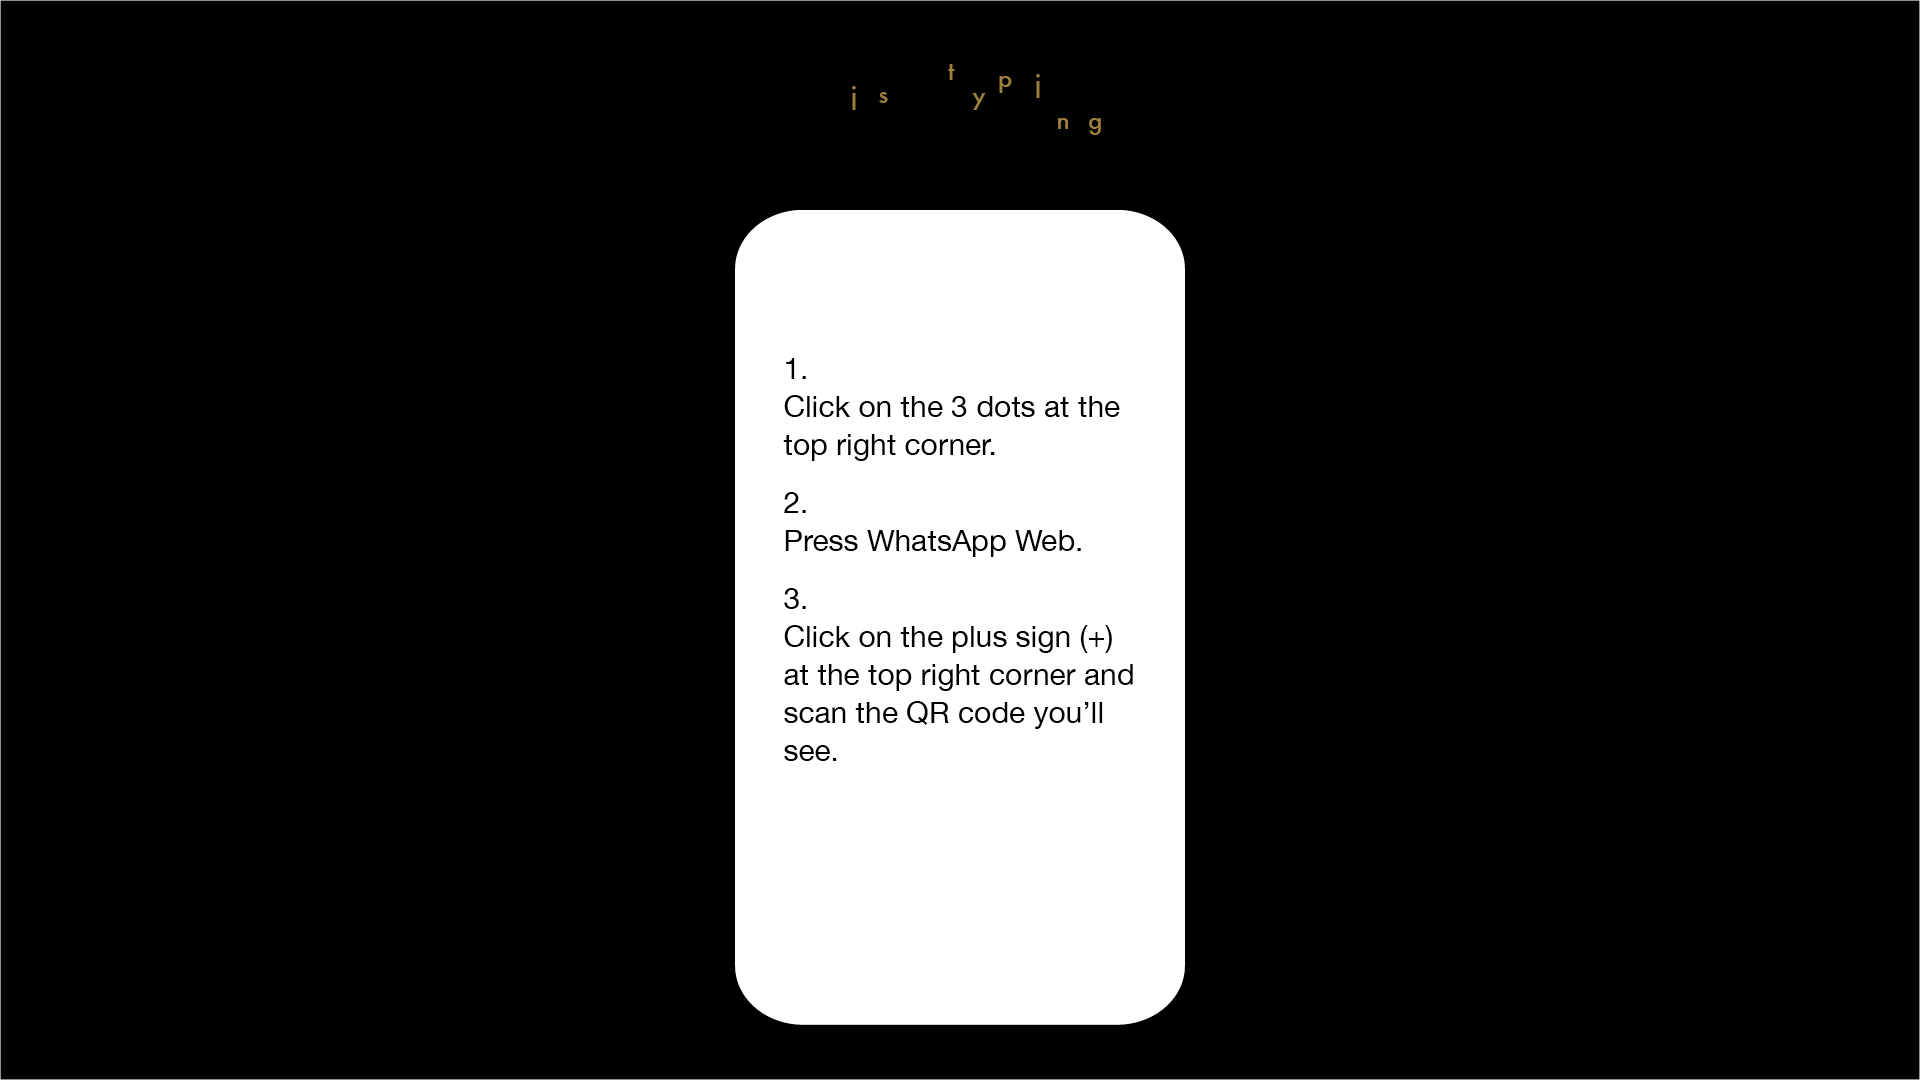
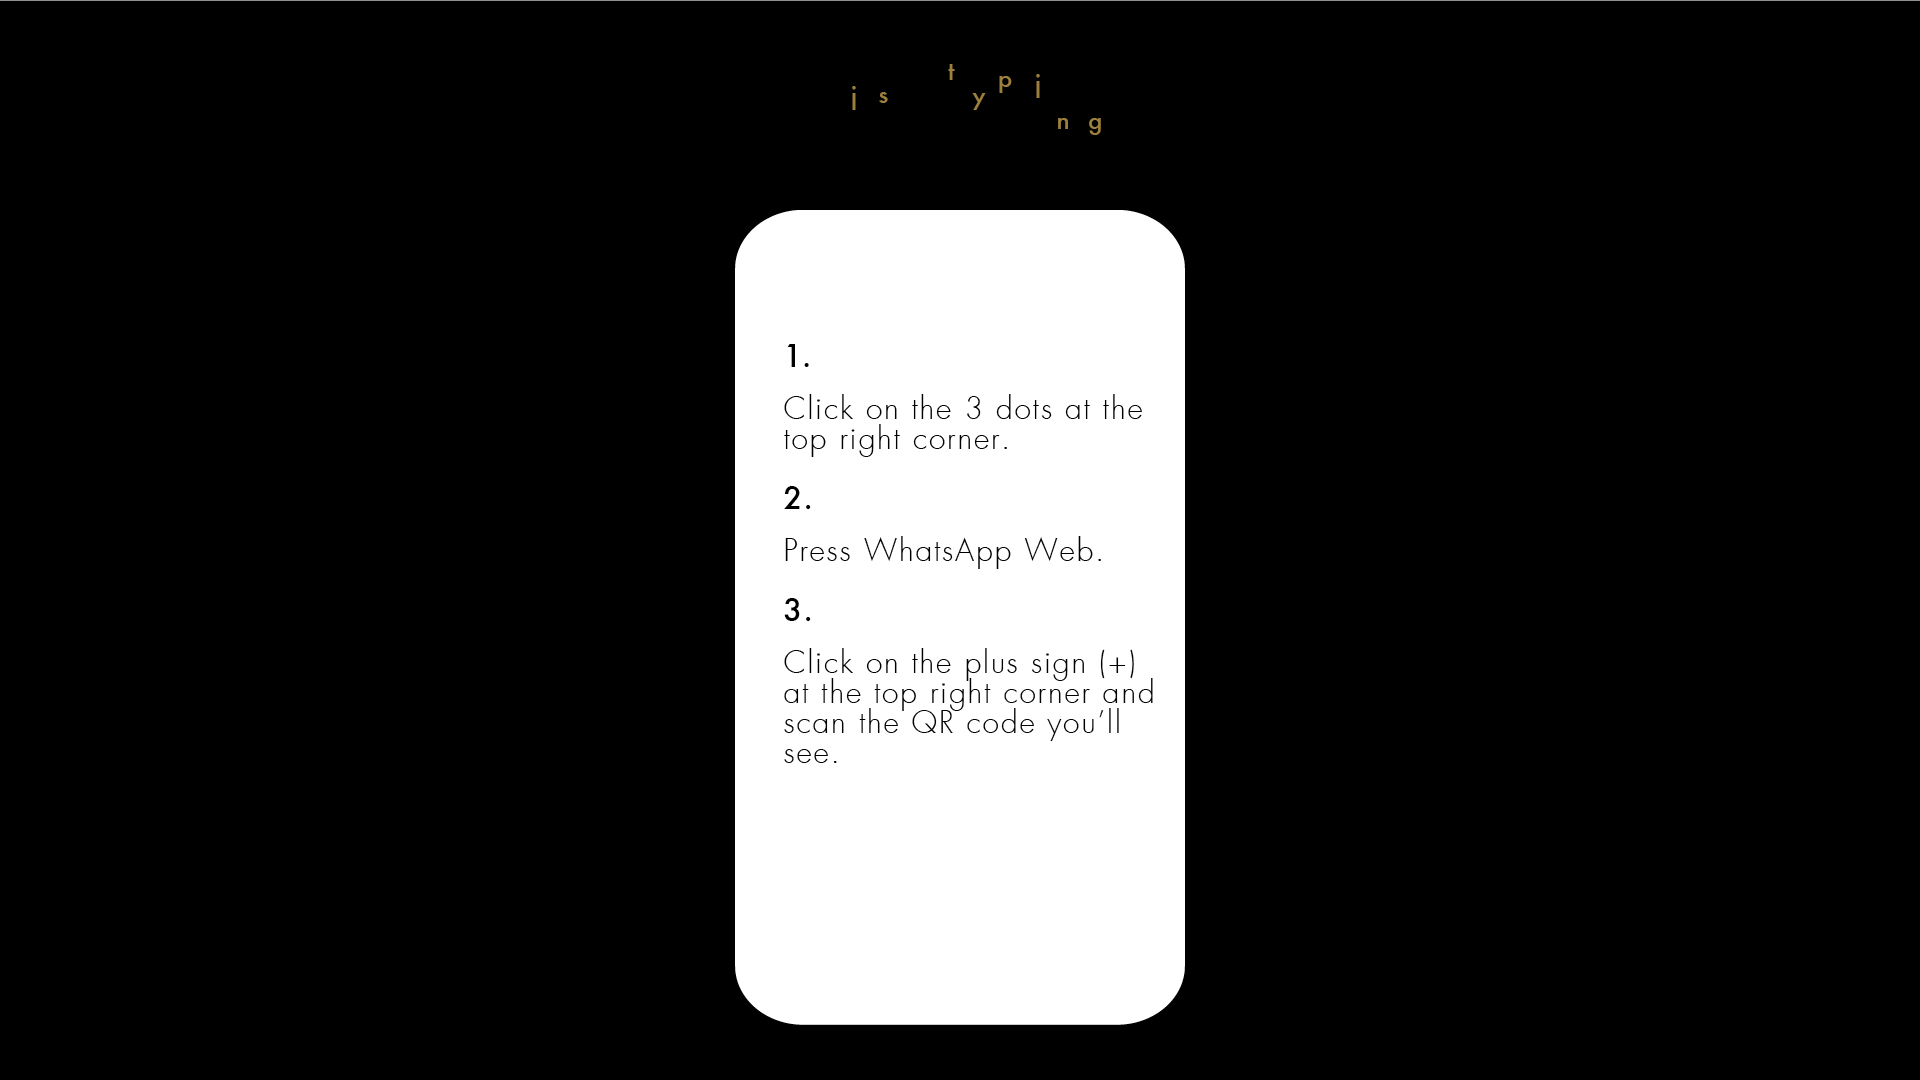
changes in site layour new graphics diff font change intro into 2 pages instead of one chnage order of name and nick change of buttons

Changed region(s): [[0.4062, 0.55, 0.5938, 0.7028], [0.4062, 0.3667, 0.5938, 0.4278], [0.4062, 0.4889, 0.5625, 0.5194]]

diff --git a/static/css/full.css b/static/css/full.css
@@ -34,32 +34,40 @@ body {
     -o-background-size: cover;
 }
 
-.background2 {
-    background: url("/static/images/2.jpg") no-repeat center center fixed;
+.intro {
+    background: url("/static/images/intro.jpg") no-repeat center center fixed;
     -webkit-background-size: cover;
     -moz-background-size: cover;
     background-size: cover;
     -o-background-size: cover;
 }
 
-.background3 {
-    background: url("/static/images/3.jpg") no-repeat center center fixed;
+.nickname {
+    background: url("/static/images/nickname.jpg") no-repeat center center fixed;
     -webkit-background-size: cover;
     -moz-background-size: cover;
     background-size: cover;
     -o-background-size: cover;
 }
 
-.background4 {
-    background: url("/static/images/4.jpg") no-repeat center center fixed;
+.namebackground {
+    background: url("/static/images/namebackground.jpg") no-repeat center center fixed;
     -webkit-background-size: cover;
     -moz-background-size: cover;
     background-size: cover;
     -o-background-size: cover;
 }
 
-.background5 {
-    background: url("/static/images/5.jpg") no-repeat center center fixed;
+.termsbackground {
+    background: url("/static/images/termsbackground.jpg") no-repeat center center fixed;
+    -webkit-background-size: cover;
+    -moz-background-size: cover;
+    background-size: cover;
+    -o-background-size: cover;
+}
+
+.choosephone {
+    background: url("/static/images/choosephone.jpg") no-repeat center center fixed;
     -webkit-background-size: cover;
     -moz-background-size: cover;
     background-size: cover;
@@ -115,6 +123,10 @@ body {
 }
 
 .bottomaligned {
+position:absolute; bottom:20%;  margin-bottom:7px; left: 46%;
+}
+
+.introbutton {
 position:absolute; bottom:20%;  margin-bottom:7px; left: 46%;
 }
 
@@ -179,76 +191,6 @@ position:absolute; bottom:1%;  margin-bottom:7px; left: 7%;
     font-size: 30px;
     font-family: "Verdana";
 }
-
-@import "compass/css3";
-
-.wrapper {
-  position: relative;
-  margin: 40px auto;
-  background: white;
-}
-
-@mixin timer($item, $duration, $size, $color, $border, $hover: running) {
-  #{$item}, #{$item} * { @include box-sizing(border-box); }
-
-  #{$item} {
-    width: $size;
-    height: $size;
-  }
-
-  #{$item} .pie {
-    width: 50%;
-    height: 100%;
-    transform-origin: 100% 50%;
-    position: absolute;
-    background: $color;
-    border: #{$border};
-  }
-
-  #{$item} .spinner {
-    border-radius: 100% 0 0 100% / 50% 0 0 50%;
-    z-index: 200;
-    border-right: none;
-    animation: rota $duration + s linear infinite;
-  }
-
-  #{$item}:hover .spinner,
-  #{$item}:hover .filler,
-  #{$item}:hover .mask {
-    animation-play-state: $hover;
-  }
-
-  #{$item} .filler {
-    border-radius: 0 100% 100% 0 / 0 50% 50% 0;
-    left: 50%;
-    opacity: 0;
-    z-index: 100;
-    animation: opa $duration + s steps(1,end) infinite reverse;
-    border-left: none;
-  }
-
-  #{$item} .mask {
-    width: 50%;
-    height: 100%;
-    position: absolute;
-    background: inherit;
-    opacity: 1;
-    z-index: 300;
-    animation: opa $duration + s steps(1,end) infinite;
-  }
-
-  @keyframes rota {
-    0% { transform: rotate(0deg); }
-    100% { transform: rotate(360deg); }
-  }
-
-  @keyframes opa {
-    0% { opacity: 1; }
-    50%, 100% { opacity: 0; }
-  }
-}
-
-@include timer('.wrapper', 5, 250px, #08C, '5px solid rgba(0,0,0,0.5)');
 
 .timerposition {
 position:absolute; bottom:30%;  margin-bottom:7px; left: 8%;

diff --git a/static/nickname.html b/static/nickname.html
@@ -1,5 +1,5 @@
 <!DOCTYPE html>
-<html class="background2" lang="en">
+<html class="nickname" lang="en">
 <!-- Make sure the <html> tag is set to the .full CSS class. Change the background images in the full.css file. -->
 
 <head>
@@ -48,9 +48,10 @@
         <form class="form-inline" role="form">
           <div class="form-group">
             <label for="NickName"></label>
-            <input type="text"  style="font-size:20px;line-height=30px;" class="textbox" size="40" id="NickName" autocomplete="off" placeholder="Your nickname here">
+            <!--<input type="text"  style="font-size:20px;line-height=30px;" class="textbox" size="40" id="NickName" autocomplete="off" placeholder="Your nickname here">-->
+            <input type="text" class="form-control" size="40" id="NickName" autocomplete="off" placeholder="Your nickname here">
           </div>
-          <button type="button" class="startbutton" style="height:46px;" onclick="addNickName()">Submit</button>
+          <button type="button" class="startbutton" onclick="addNickName()">Submit</button>
         </form>
     </div>
 

diff --git a/static/intro.html b/static/intro.html
@@ -1,5 +1,5 @@
 <!DOCTYPE html>
-<html class="namebackground" lang="en">
+<html class="background2" lang="en">
 <!-- Make sure the <html> tag is set to the .full CSS class. Change the background images in the full.css file. -->
 
 <head>
@@ -44,18 +44,8 @@
             <!--</div>-->
         <!--</div>-->
     <!--</form>-->
-    <div class="bottomfullname">
-        <form class="form-inline" role="form">
-          <div class="form-group">
-            <!--<label for="FirstName">Full Name:</label>-->
-            <input type="text" class="form-control" id="FirstName" placeholder="First name">
-          </div>
-          <div class="form-group">
-            <label for="LastName"></label>
-            <input type="text" class="form-control" id="LastName" placeholder="Last name">
-          </div>
-          <button type="button" class="startbutton" onclick="addName()">Submit</button>
-        </form>
+    <div class= "introbutton">
+          <button type="button" class="startbutton" style="height:46px;" onclick="tofullname()">Submit</button>
     </div>
 
     <!-- jQuery -->

diff --git a/static/js/bootstrap1.js b/static/js/bootstrap1.js
@@ -2370,7 +2370,7 @@ if (typeof jQuery === 'undefined') {
     var nameArray = {first:firstName, last:lastName};
     console.log(nameArray);
     $.get("/namesubmit", nameArray);
-    window.location.href = 'Terms&Conditions.html';
+    window.location.href = 'nickname.html';
    }
 
   function addNickName()
@@ -2380,12 +2380,27 @@ if (typeof jQuery === 'undefined') {
     var nameArray = {nick: nickName};
     console.log(nameArray);
     $.get("/nicknamesubmit", nameArray);
-    window.location.href = 'name.html';
+    window.location.href = 'Terms&Conditions.html';
    }
 
   function next()
   {
-    window.location.href = 'static/nickname.html';
+    window.location.href = '/static/intro.html';
+  }
+
+  function tointro()
+  {
+    window.location.href = '/static/intro.html';
+  }
+
+     function tofullname()
+  {
+    window.location.href = 'name.html';
+  }
+
+    function tonickname()
+  {
+    window.location.href = 'nickname.html';
   }
 
   function agree()

diff --git a/static/LandingPage.html b/static/LandingPage.html
@@ -39,7 +39,7 @@
        <!--<div class="col-xs-6 col-md-4 col-xs-offset-3">-->
 
        <div class="bottomaligned">
-                <button type="submit" class="btn btn-default" name="signup" none value="Sign up" style="font-size:20px;width:100px;" onclick="next()">Start</button>
+                <button type="submit" class="btn btn-default" name="signup" none value="Sign up" style="font-size:20px;width:100px;" onclick="tointro()">Start</button>
                 <!--<button type="submit" class="btn btn-primary" name="signup" value="Sign up" >Next</button>-->
                 <!--<a href="name">Go to the Home Page</a>-->
            <!--<FORM action="name"><INPUT type=submit value="whateverbuttontext"><a-->

diff --git a/LandingPage.html b/LandingPage.html
@@ -39,7 +39,7 @@
        <!--<div class="col-xs-6 col-md-4 col-xs-offset-3">-->
 
        <div class="bottomaligned">
-                <button type="submit" class="startbutton" name="signup" value="Sign up" style="font-size:20px;width:100px;" onclick="next()">Start</button>
+                <button type="submit" class="startbutton" name="signup" value="Sign up" style="font-size:20px;width:100px;" onclick="tointro()">Start</button>
                 <!--<button type="submit" class="btn btn-primary" name="signup" value="Sign up" >Next</button>-->
                 <!--<a href="name">Go to the Home Page</a>-->
            <!--<FORM action="name"><INPUT type=submit value="whateverbuttontext"><a-->

diff --git a/static/Terms&Conditions.html b/static/Terms&Conditions.html
@@ -80,7 +80,7 @@
         <div class="bottomlegalagree">
             <div class="form-group">
                 <div class="col-xs-9 col-xs-offset-3">
-                    <button type="button" class="btn-terms" style="width:300px;height:200px;border-radius:10px;"  onclick="agree()">I Agree</button>
+                    <button type="button" class="startbutton" style="width:300px;height:200px;border-radius:10px;"  onclick="agree()">I Agree</button>
                 </div>
             </div>
         </div>

diff --git a/static/choosephone.html b/static/choosephone.html
@@ -1,5 +1,5 @@
 <!DOCTYPE html>
-<html class="background5" lang="en">
+<html class="choosephone" lang="en">
 <!-- Make sure the <html> tag is set to the .full CSS class. Change the background images in the full.css file. -->
 
 <head>

diff --git a/Webdriver.py b/Webdriver.py
@@ -10,11 +10,11 @@ class Webdriver:
         chromeOptions = Options()
         chromeOptions.add_argument("--kiosk")  # fullscreen mode
         # self.browser = webdriver.Chrome()  # Create Chrome browser
+        self.browser = webdriver.Chrome(executable_path="/Users/GN3/Desktop/chromedriver",chrome_options=chromeOptions)  # Create Chrome browser
+        # self.browser = webdriver.Chrome(executable_path="C:\\Users\\maoze\\AppData\\Local\\Programs\\Python\\Python35-32\\Scripts\\chromedriver.exe",chrome_options=chromeOptions)  # Create Chrome browser
         # self.browser = webdriver.Chrome(executable_path="/Users/GN3/Desktop/chromedriver")  # Create Chrome browser
-        self.browser = webdriver.Chrome(executable_path="C:\\Users\\maoze\\AppData\\Local\\Programs\\Python\\Python35-32\\Scripts\\chromedriver.exe",chrome_options=chromeOptions)  # Create Chrome browser
-        # self.browser = webdriver.Chrome(executable_path="/Users/GN3/Desktop/chromedriver")  # Create Chrome browser
-        # self.browser = webdriver.Chrome(executable_path="C:\\Users\\maoze\\AppData\\Local\\Programs\\Python\\Python35-32\\Scripts\\chromedriver.exe")  # Create Chrome browser
-        # self.browser = webdriver.Chrome(executable_path="C:\Program Files\Python35\Scripts\chromedriver.exe")  # Create Chrome browser
+        # self.browser = webdriver.Chrome(executable_path="C:\\Users\\maoze\\AppData\\Local\\Programs\\Python\\Python35-32\\Scripts\\chromedriver.exe,,chrome_options=chromeOptions")  # Create Chrome browser
+        # self.browser = webdriver.Chrome(executable_path="C:\Program Files\Python35\Scripts\chromedriver.exe,,chrome_options=chromeOptions")  # Create Chrome browser
 
 
         self.browser.maximize_window()
